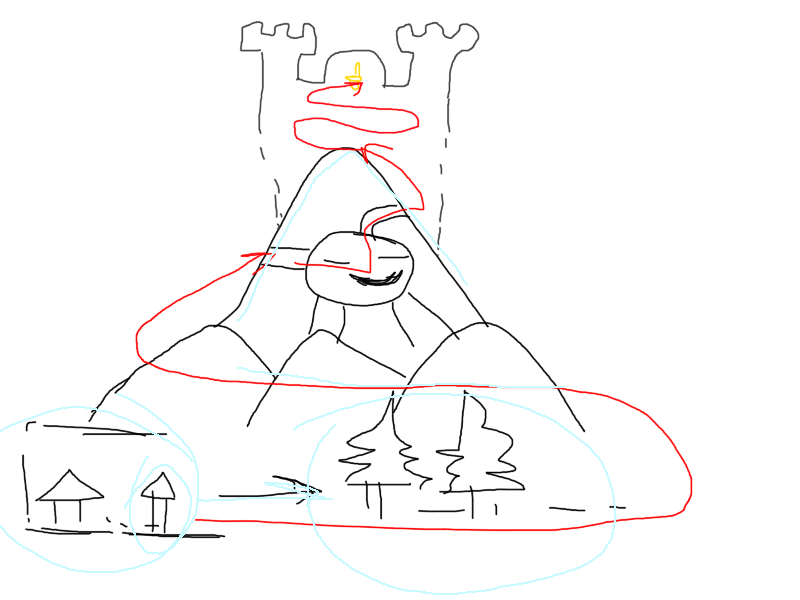
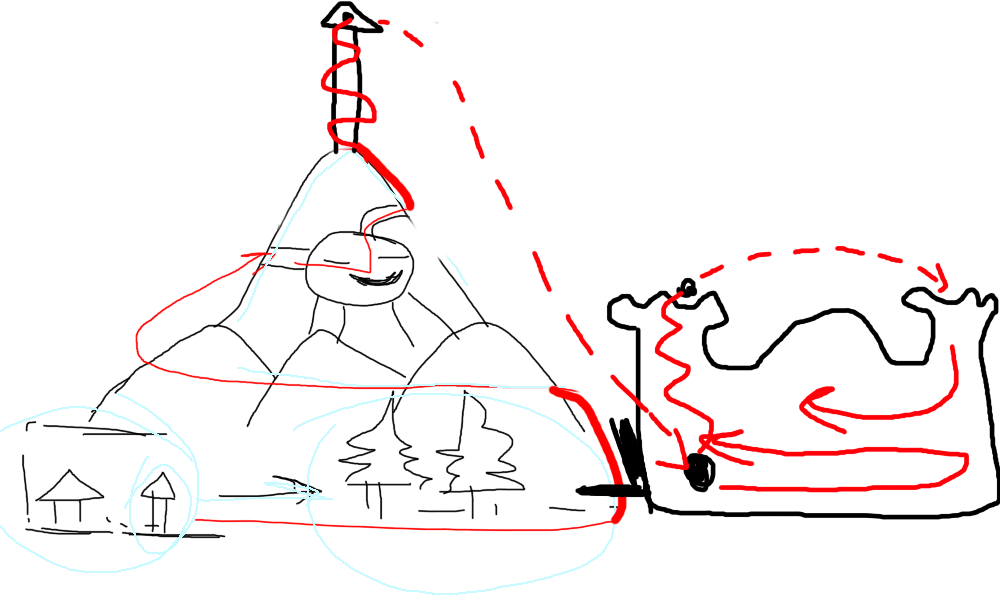
Portal

diff --git a/src/editor/tools/portal.rs b/src/editor/tools/portal.rs
@@ -1,0 +1,136 @@
+use super::*;
+
+pub struct PortalToolConfig {
+    snap_distance: f32,
+}
+
+impl EditorToolConfig for PortalToolConfig {
+    fn default(assets: &Assets) -> Self {
+        Self {
+            snap_distance: assets.config.snap_distance,
+        }
+    }
+}
+
+pub struct PortalTool {
+    geng: Geng,
+    assets: Rc<Assets>,
+    start_drag: Option<usize>,
+    config: PortalToolConfig,
+}
+impl PortalTool {
+    fn find_hovered_portal(&self, cursor: &Cursor, level: &Level) -> Option<usize> {
+        level
+            .portals
+            .iter()
+            .enumerate()
+            .filter(|(_index, portal)| {
+                (portal.pos - cursor.world_pos).len() < self.config.snap_distance
+            })
+            .min_by_key(|(_index, portal)| r32((portal.pos - cursor.world_pos).len()))
+            .map(|(index, _portal)| index)
+    }
+}
+
+impl EditorTool for PortalTool {
+    type Config = PortalToolConfig;
+    fn new(geng: &Geng, assets: &Rc<Assets>, config: PortalToolConfig) -> Self {
+        Self {
+            geng: geng.clone(),
+            assets: assets.clone(),
+            config,
+            start_drag: None,
+        }
+    }
+    fn draw(
+        &self,
+        cursor: &Cursor,
+        level: &Level,
+        camera: &geng::Camera2d,
+        framebuffer: &mut ugli::Framebuffer,
+    ) {
+        if let Some(start) = self.start_drag {
+            self.geng.draw_2d(
+                framebuffer,
+                camera,
+                &draw_2d::Segment::new(
+                    Segment(level.portals[start].pos, cursor.world_pos),
+                    0.2,
+                    Rgba::new(1.0, 0.0, 0.0, 0.5),
+                ),
+            );
+        } else if let Some(index) = self.find_hovered_portal(cursor, level) {
+            let portal = &level.portals[index];
+            self.geng.draw_2d(
+                framebuffer,
+                camera,
+                &draw_2d::Quad::new(
+                    Aabb2::point(portal.pos).extend_uniform(0.5),
+                    Rgba::new(1.0, 0.0, 0.0, 0.5),
+                ),
+            );
+        }
+    }
+    fn handle_event(&mut self, cursor: &Cursor, event: &geng::Event, level: &mut Level) {
+        match event {
+            geng::Event::MouseDown {
+                button: geng::MouseButton::Left,
+                ..
+            } => {
+                if let Some(index) = self.find_hovered_portal(cursor, level) {
+                    self.start_drag = Some(index);
+                } else {
+                    self.start_drag = Some(level.portals.len());
+                    level.modify().portals.push(Portal {
+                        pos: cursor.world_pos,
+                        dest: None,
+                        color: random_hue(),
+                    });
+                }
+            }
+            geng::Event::MouseUp {
+                button: geng::MouseButton::Left,
+                ..
+            } => {
+                if let Some(start) = self.start_drag.take() {
+                    if let Some(index) = self.find_hovered_portal(cursor, level) {
+                        if index != start {
+                            level.modify().portals[start].dest = Some(index);
+                        }
+                    }
+                }
+            }
+            geng::Event::MouseDown {
+                button: geng::MouseButton::Right,
+                ..
+            } => {
+                if let Some(index) = self.find_hovered_portal(cursor, level) {
+                    let level = level.modify();
+                    level.portals.remove(index);
+                    for portal in &mut level.portals {
+                        if let Some(dest) = &mut portal.dest {
+                            match (*dest).cmp(&index) {
+                                std::cmp::Ordering::Less => {}
+                                std::cmp::Ordering::Equal => portal.dest = None,
+                                std::cmp::Ordering::Greater => *dest -= 1,
+                            }
+                        }
+                    }
+                }
+            }
+            geng::Event::KeyDown { key: geng::Key::C } => {
+                if let Some(index) = self.find_hovered_portal(cursor, level) {
+                    level.modify().portals[index].color = random_hue();
+                }
+            }
+            _ => {}
+        }
+    }
+
+    const NAME: &'static str = "Portal";
+
+    fn ui<'a>(&'a mut self, _cx: &'a geng::ui::Controller) -> Box<dyn geng::ui::Widget + 'a> {
+        use geng::ui::*;
+        geng::ui::Void.fixed_size(vec2::ZERO).boxed()
+    }
+}

diff --git a/src/logic.rs b/src/logic.rs
@@ -50,6 +50,7 @@ impl Game {
             false
         };
         for guy in &mut self.guys {
+            let prev_state = guy.ball.clone();
             let was_colliding_water = is_colliding(guy, "water");
             if (guy.ball.pos - self.level.finish_point).len() < 1.5 {
                 guy.progress.finished = true;
@@ -527,6 +528,18 @@ impl Game {
                                 .clamp(0.0, 1.0) as f64,
                         );
                         effect.play();
+                    }
+                }
+            }
+
+            // Portals
+            for portal in &self.level.portals {
+                let is_colliding =
+                    |pos: vec2<f32>| -> bool { (pos - portal.pos).len() < self.config.portal.size };
+                if !is_colliding(prev_state.pos) && is_colliding(guy.ball.pos) {
+                    if let Some(dest) = portal.dest {
+                        guy.ball.pos = self.level.portals[dest].pos;
+                        break;
                     }
                 }
             }

diff --git a/src/level/draw.rs b/src/level/draw.rs
@@ -178,6 +178,19 @@ impl Game {
         }
     }
 
+    pub fn draw_portals(&self, level: &Level, framebuffer: &mut ugli::Framebuffer) {
+        for portal in &level.portals {
+            self.geng.draw_2d(
+                framebuffer,
+                &self.camera,
+                &draw_2d::TexturedQuad::unit_colored(&self.assets.portal, portal.color)
+                    .scale_uniform(self.config.portal.size)
+                    .rotate(self.real_time)
+                    .translate(portal.pos),
+            );
+        }
+    }
+
     pub fn draw_level_back(&self, level: &Level, framebuffer: &mut ugli::Framebuffer) {
         self.draw_tiles(framebuffer, level, true);
         self.geng.draw_2d(
@@ -213,6 +226,7 @@ impl Game {
             43756.0,
             1.0,
         );
+        self.draw_portals(level, framebuffer);
     }
 
     pub fn draw_level_front(&self, level: &Level, framebuffer: &mut ugli::Framebuffer) {

diff --git a/src/assets.rs b/src/assets.rs
@@ -23,6 +23,7 @@ pub struct Assets {
     pub emotes: Vec<Texture>,
     pub shaders: Shaders,
     pub cannon: CannonAssets,
+    pub portal: Texture,
 }
 
 #[derive(geng::Assets)]
@@ -47,6 +48,11 @@ pub struct CannonConfig {
     pub particle_count: usize,
     pub particle_color: Rgba<f32>,
     pub particle_speed: f32,
+}
+
+#[derive(Deserialize, Clone, Debug)]
+pub struct PortalConfig {
+    pub size: f32,
 }
 
 #[derive(geng::Assets, Deserialize, Clone, Debug)]
@@ -81,6 +87,7 @@ pub struct Config {
     pub snow_falloff_impulse_max: f32,
     pub snow_density: f32,
     pub cannon: CannonConfig,
+    pub portal: PortalConfig,
 }
 
 #[derive(geng::Assets)]

diff --git a/src/level/mod.rs b/src/level/mod.rs
@@ -3,12 +3,14 @@ use super::*;
 mod cannon;
 mod draw;
 mod object;
+mod portal;
 mod progress;
 mod surface;
 mod tile;
 
 pub use cannon::*;
 pub use object::*;
+pub use portal::*;
 pub use surface::*;
 pub use tile::*;
 
@@ -21,6 +23,7 @@ pub struct LevelInfo {
     pub expected_path: Vec<vec2<f32>>,
     pub objects: Vec<Object>,
     pub cannons: Vec<Cannon>,
+    pub portals: Vec<Portal>,
 }
 
 impl LevelInfo {
@@ -33,6 +36,7 @@ impl LevelInfo {
             expected_path: vec![],
             objects: vec![],
             cannons: vec![],
+            portals: vec![],
         }
     }
 }

diff --git a/src/editor/mod.rs b/src/editor/mod.rs
@@ -28,6 +28,7 @@ impl EditorState {
             tool_constructor::<EndpointTool>(geng, assets),
             tool_constructor::<ProgressTool>(geng, assets),
             tool_constructor::<CannonTool>(geng, assets),
+            tool_constructor::<PortalTool>(geng, assets),
         ];
         let selected_tool_index = 0;
         Self {

diff --git a/src/guy/mod.rs b/src/guy/mod.rs
@@ -92,10 +92,6 @@ pub struct GuyColors {
 
 impl GuyColors {
     pub fn random() -> Self {
-        let random_hue = || {
-            let hue = thread_rng().gen_range(0.0..1.0);
-            Hsva::new(hue, 1.0, 1.0, 1.0).into()
-        };
         Self {
             top: random_hue(),
             bottom: random_hue(),

diff --git a/src/editor/tools/mod.rs b/src/editor/tools/mod.rs
@@ -3,6 +3,7 @@ use super::*;
 mod cannon;
 mod endpoint;
 mod object;
+mod portal;
 mod progress;
 mod surface;
 mod tile;
@@ -10,6 +11,7 @@ mod tile;
 pub use cannon::*;
 pub use endpoint::*;
 pub use object::*;
+pub use portal::*;
 pub use progress::*;
 pub use surface::*;
 pub use tile::*;

diff --git a/src/util.rs b/src/util.rs
@@ -46,3 +46,8 @@ impl Game {
         self.noise.get([(self.real_time * frequency) as f64, phase]) as f32
     }
 }
+
+pub fn random_hue() -> Rgba<f32> {
+    let hue = thread_rng().gen_range(0.0..1.0);
+    Hsva::new(hue, 1.0, 1.0, 1.0).into()
+}

diff --git a/src/level/portal.rs b/src/level/portal.rs
@@ -1,0 +1,8 @@
+use super::*;
+
+#[derive(Serialize, Deserialize)]
+pub struct Portal {
+    pub pos: vec2<f32>,
+    pub dest: Option<usize>,
+    pub color: Rgba<f32>,
+}

diff --git a/ROADMAP.md b/ROADMAP.md
@@ -56,6 +56,7 @@ Naming sections
 
 ## Gameplay
 
+river
 Controls are to stay
 Moving platforms? wheel / swinging axes
 Sections with different/no gravity
